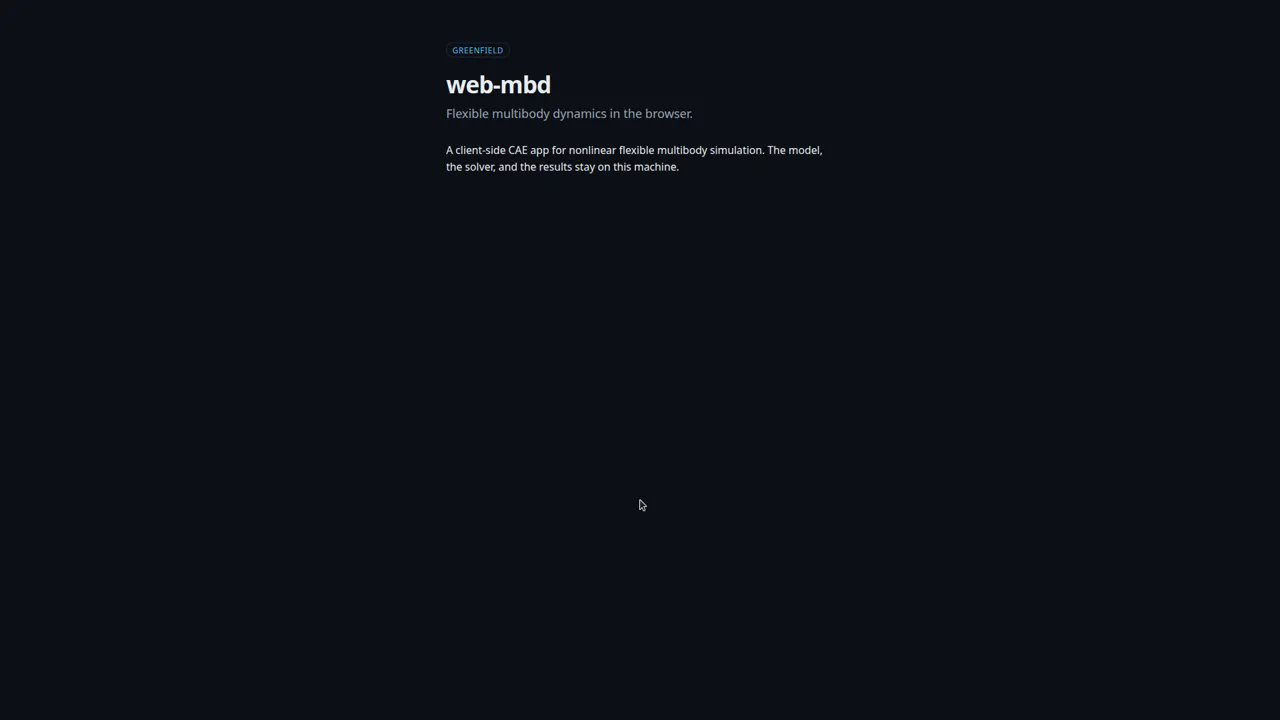
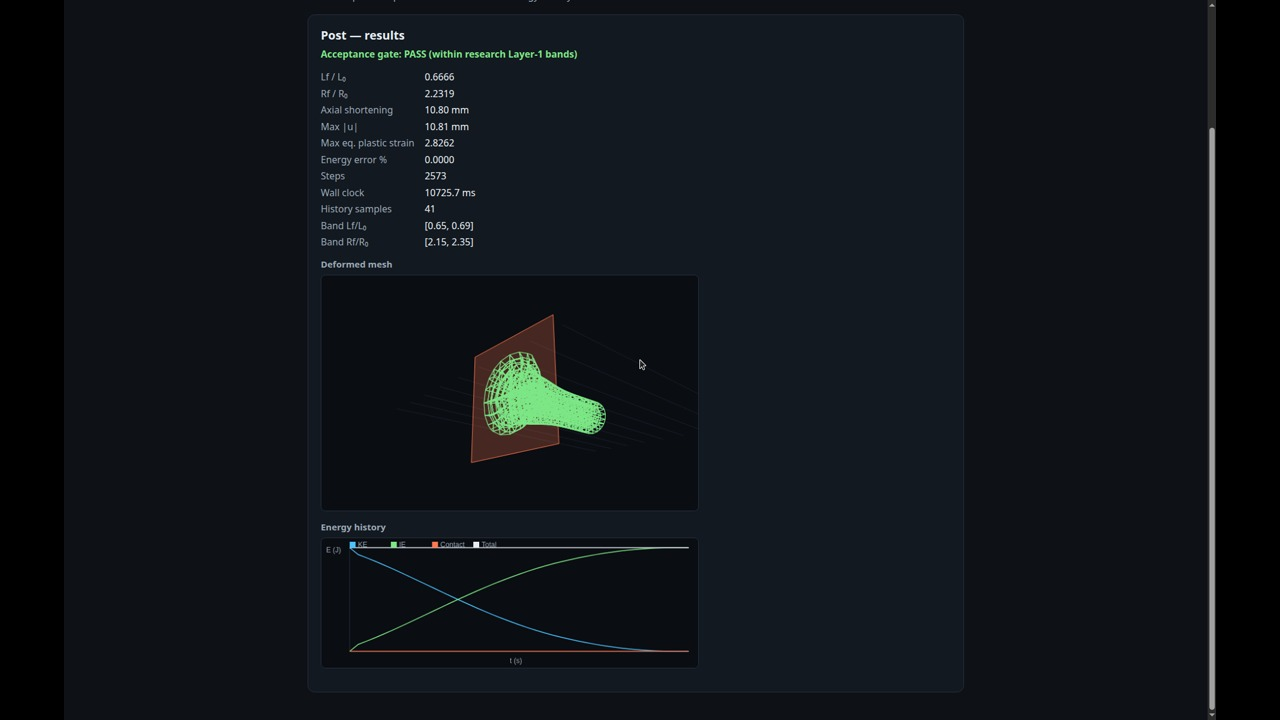
feat(toys): use deformed Taylor bar as web-mbd cover
Replace the greenfield landing-page thumbnail with a 1280x720
progressive JPEG of the post-impact deformed hex mesh.

diff --git a/content/toys/web-mbd.md b/content/toys/web-mbd.md
@@ -6,7 +6,7 @@ play_label: play
 summary: Client-side flexible multibody dynamics. Nonlinear FE crash and impact in the browser — model, solver, and results stay on the machine.
 cover:
   image: /toys/web-mbd.jpg
-  alt: web-mbd greenfield landing page for browser multibody dynamics
+  alt: "Taylor bar post: deformed hex mesh after impact (web-mbd)"
 _build:
   render: never
   list: local
